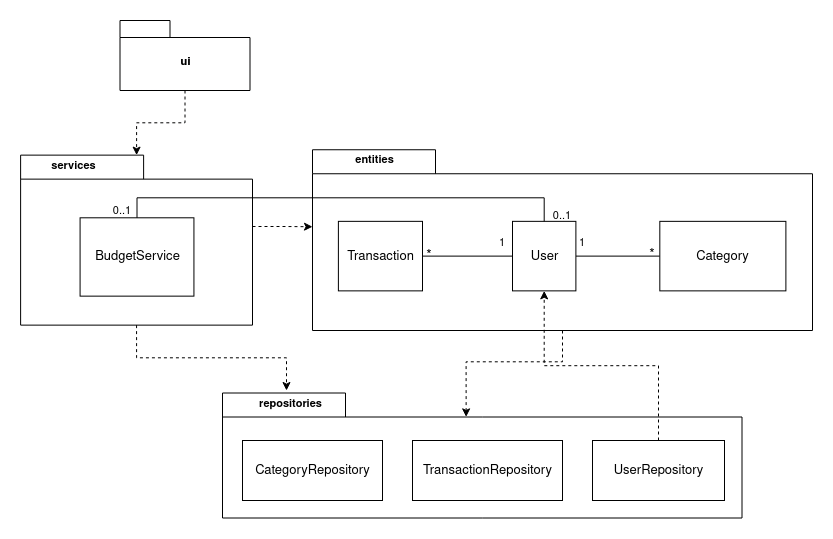
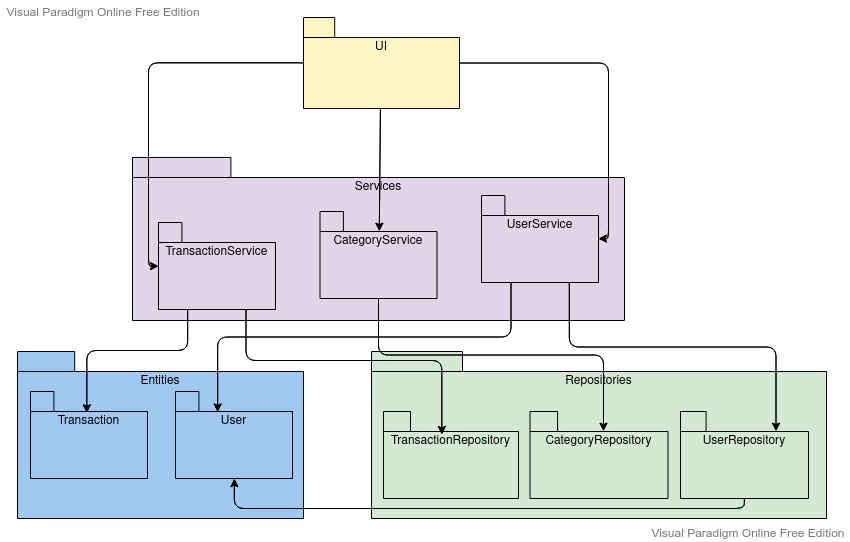
Update documentation

diff --git a/dokumentaatio/arkkitehtuuri.md b/dokumentaatio/arkkitehtuuri.md
@@ -4,23 +4,22 @@
 
 Koodin pakkausrakenne on seuraava:
 
-![Pakkauskaavio](images/pakkauskaavio.png)
+![](images/pakkauskaavio.png)
 
-Pakkaus `ui` sisältää käyttöliittymäkoodin, `services` sovelluslogiikan sekä `repositories` tietojen tallennukseen liittyvän koodin. Pakkaus `entities` sisältää luokat `Transaction`, `User` ja `Category`, jotka kuvastavat yksittäisiä sovelluksen käyttämiä tietoyksiköitä.
+Pakkaus `UI` sisältää Pythonin standardikirjastoon kuuluvalla [`tkinter`-moduulilla](https://docs.python.org/3/library/tkinter.html) toteutetun käyttöliittymäkoodin, `Services` sovelluslogiikan sekä `Repositories` tietojen tallennukseen ja hakemiseen liittyvän koodin. Pakkaus `Entities` sisältää luokat `Transaction` ja `User`, jotka kuvastavat yksittäisiä sovelluksen käyttämiä tietoyksiköitä.
 
 ## Käyttöliittymä
 
-Sovelluksen käyttöliittymä sisältää seuraavat näkymät:
+Sovelluksen käyttöliittymä sisältää yhteensä kuusi eri näkymää:
 
 * Kirjautuminen
 * Uuden käyttäjätilin luominen
 * Tapahtumien tarkastelu (**päänäkymä**)
-* Uuden tapahtuman lisäys
-* Tapahtuman muokkaus
+* Tapahtuman muokkaus ja lisäys
 * Kategorioiden tarkastelu
 * Uuden kategorian lisäys
 
-Eri näkyvistä vastaa `UI`-luokka. Sovelluslogiikka tapahtuu `BudgetService`-luokassa, jonka metodeja `UI`-luokka kutsuu.
+Eri näkymistä vastaa `UI`-luokka. Sovelluslogiikka tapahtuu `Services`-pakkauksen luokissa, joiden metodeja `UI`-luokasta kutsutaan.
 
 ## Sovelluslogiikka
 
@@ -37,35 +36,67 @@ classDiagram
         date
         amount
         category_id
+        user_id
         description
-        user
     }
 ```
 
-Sovelluslogiikasta vastaa `BudgetService`-luokan olio. Jokaista käyttöliittymän toimintoa vastaa yksi `BudgetService`-luokan metodi. Näitä metodeja ovat esimerkiksi:
+Sovelluslogiikasta vastaa kolme eri `Services`-pakkauksen oliota. `Services`-pakkauksen toteutus vastaa `Repositories`-pakkauksen toteutusta, eli `TransactionService` vastaa tapahtumiin liittyvästä sovelluslogiikasta, `UserService` vastaa käyttäjiin liittyvästä sovelluslogiikasta ja `CategoryService` kategorioihin liittyvästä sovelluslogiikasta.
 
-* `create_user(username, password1, password2)`
-* `find_transactions()`
-* `delete_category(category_id)`
+Jokaista käyttöliittymän toimintoa vastaa yksi `Services`-pakkaukseen kuuluvien luokkien metodeista. Näitä ovat esimerkiksi:
 
-`BudgetService`-luokka ei vastaa tiedon tallennuksesta, vaan tarvittaessa `BudgetService`-luokka kutsuu `Repositories`-pakkauksen luokkia `UserRepository`, `TransactionRepository` ja `CategoryRepository`.
+* `UserService.create(username, password1, password2)`
+* `TransactionService.get_one(transaction_id)`
+* `CategoryService.delete(category_id, user_id)`
+
+Kuten ylempänä esitetystä pakkauskaaviosta voi huomata, käyttöliittymäolio kutsuu ainoastaan sovelluslogiikasta vastaavia olioita, ja tiedon tallennus on keskitetty kokonaan `Repositories`-pakkauksen luokille. Näin ollen esimerkiksi tiedon tallennustapaa voisi muuttaa ilman tarvetta päivittää sovelluslogiikkaa. Sovelluslogiikasta vastaavista luokista tarvittaessa vain kutsutaan `Repositories`-pakkauksen luokkia `UserRepository`, `TransactionRepository` ja `CategoryRepository`.
 
 ## Tiedon tallennus
 
-`Repositories`-pakkauksen luokat `UserRepository`, `TransactionRepository` ja `CategoryRepository` huolehtivat tiedon tallentamisesta. Kaikki tieto tallennetaan [SQLite](https://www.sqlite.org/)-tietokantaan. Tietokannan nimi on määritelty `.env.`-tiedostossa, ja se on oletuksena `expensetracker.db`.
+Luokkien suunnittelussa on noudatettu repository-suunnittelumallia, mikä tarkoittaa että tiedon haku ja tallennus on eriytetty omiin osiinsa. Tällöin jokaisella tietokohteella (tämän sovelluksen tapauksessa käyttäjät, tapahtumat ja kategoriat) on oma repositorionsa.
+
+`Repositories`-pakkauksen luokat `UserRepository`, `TransactionRepository` ja `CategoryRepository` huolehtivat tiedon tallentamisesta ja hakemisesta. Kaikki tieto tallennetaan [SQLite](https://www.sqlite.org/)-tietokantaan. Tietokannan nimi on määritelty `.env`-tiedostossa, ja se on oletuksena `expensetracker.db`. Testien suorittamista varten on oma tietokantansa.
 
 Tietokanta alustetaan `initialize_database.py`-tiedostossa, joka suoritetaan automaattisesti alustustoimenpiteiden aikana (`poetry run invoke build`).
 
-## Toiminnallisuudet
+Tietokanta sisältää neljä taulua: `Users`, `Transactions`, `Categories` ja `CategoryVisibilities`. Kolme ensimmäistä taulua vastaa läpi sovelluksen esiintyviä vastaavia tietorakenteita, ja viimeksi mainittu sisältää tiedon siitä, mitkä kategoriat kullekin käyttäjälle näytetään. Näin siksi, että kullakin sovelluksen käyttäjistä on omat kategoriansa, ja kunkin käyttäjän tulee pystyä poistamaan kategorioita vain itseltään. Käyttäjän ”poistaessa” kategorian sitä ei todellisuudessa poisteta, vaan ainoastaan piilotetaan häneltä.
 
-### Uuden käyttäjän luominen
+Tarkempaa tietoa sovelluksen käyttämän tietokannan rakenteesta voit katsoa [täältä](https://github.com/valtterikantanen/ot-harjoitustyo/blob/master/src/initialize_database.py).
+
+## Päätoiminnallisuudet
+
+Alla on kuvattu sekvenssikaavioina sovelluksen toimintalogiikka muutaman päätoiminnallisuuden osalta. 
+
+### Rekisteröityminen ja sisäänkirjautuminen
 
 ![](images/sekvenssikaavio_kirjautuminen.png)
 
-### Uuden tapahtuman luominen
+Sovelluksen alkunäkymässä käyttäjä klikkaa ”Luo uusi käyttäjätili” -painiketta. Avautuvassa näkymässä käyttäjä syöttää haluamansa käyttäjätunnuksen ja salasanan, ja tämän jälkeen painaa ”Luo käyttäjätili”. Tämän jälkeen käyttöliittymä kutsuu `UserService`-luokan `create`-funktiota, jossa syötteet testataan mahdollisten virheiden varalta (mm. jokin syötteistä tyhjä, salasana ja sen vahvistus eivät täsmää). Jos syötteet ovat kunnossa, `UserService` kutsuu `UserRepository`-luokan `create`-funktiota parametrinaan `User`-olio. `UserRepository` palauttaa juuri luodun käyttäjätilin id:n, joka myös `UserService`-luokasta välitetään käyttöliittymälle.
+
+Käyttäjätilin luomisen jälkeen käyttäjälle lisätään vielä oletuskategoriat. Käyttöliittymästä kutsutaan `CategoryService`-luokan funktiota `add_default_categories` parametrinaan juuri luodun käyttäjätilin id. `CategoryService`-luokasta kutsutaan `CategoryRepository`-luokkaa, joka hoitaa varsinaisen lisäyksen.
+
+Viimeisenä käyttäjä kirjataan automaattisesti sisään kutsumalla jälleen käyttöliittymästä `UserService`-luokan `login`-funktiota parametrinaan käyttäjätunnus ja salasana, minkä jälkeen `UserService`-luokasta kutsutaan `UserRepository`-luokan `search_by_username`-funktiota parametrinaan käyttäjätunnus. Syötettyjä tietoja verrataan `search_by_username`-funktion palauttamiin arvoihin, ja jos ne vastaavat toisiaan, niin käyttäjä kirjataan sisään ja hänet siirretään sovelluksen budjetti- eli päänäkymään.
+
+### Uuden tapahtuman lisääminen
 
 ![](images/sekvenssikaavio_uusi_tapahtuma.png)
+
+Kirjautunut käyttäjä klikkaa sovelluksen budjetti- eli päänäkymästä tapahtumasta riippuen joko ”Lisää uusi meno” tai ”Lisää uusi tulo”. Molemmat valinnat johtavat samaan näkymään, mutta näkymälle välitetään tieto siitä, onko käyttäjä lisäämässä menoa vai tuloa. Käyttäjä syöttää avautuvalle lomakkeelle vähintään päivämäärän, kategorian ja määrän sekä vapaaehtoisen kuvauksen ja klikkaa ”Lisää tapahtuma”-painiketta.
+
+Tämän jälkeen käyttöliittymä kutsuu `UserService`-luokan `get_current_user_id`-funktiota, joka edelleen kutsuu `UserRepository`-luokan funktiota `get_user_id` parametrinaan sisäänkirjautuneen käyttäjän käyttäjätunnus. `UserRepository` ja `UserService` palauttavat käyttäjän id:n. Lisäksi kutsutaan `CategoryService`-luokan `get_category_id`-funktiota, jolle annetaan parametriksi kategorian nimi ja tyyppi. Samoilla parametreilla kutsutaan `CategoryRepository`-luokan `get_category_id`-funktiota, joka palauttaa kategorian id:n. `CategoryService` palauttaa saman id:n käyttöliittymälle.
+
+Seuraavaksi käyttöliittymästä kutsutaan `TransactionService`-luokan `create`-funktiota parametrinaan tapahtuman ajankohta, tyyppi (meno vai tulo), summa, kategorian id sekä käyttäjän id. Tämän jälkeen `TransactionService`-luokassa ajankohta ja summa validoidaan. Jos parametrit olivat kunnossa, kutsutaan `TransactionRepository`-luokan `add`-funktiota ja annetaan sille parametriksi `Transaction`-olio, joka sisältää tapahtuman tiedot. Tapahtuman lisäyksen jälkeen käyttäjä siirretään sovelluksen päänäkymään.
 
 ### Uuden kategorian lisääminen
 
 ![](images/sekvenssikaavio_uusi_kategoria.png)
+
+Kirjautunut käyttäjä klikkaa sovelluksen päänäkymässä ”Tarkastele kategorioita” -painiketta ja seuraavassa näkymässä ”Lisää kategoria”. Käyttäjä syöttää avautuvalle lomakkeelle kategorian nimen sekä tyypin (meno vai tulo) ja klikkaa ”Lisää kategoria”-painiketta.
+
+Tämän jälkeen käyttöliittymä kutsuu `UserService`-luokan `get_current_user_id`-funktiota, joka edelleen kutsuu `UserRepository`-luokan funktiota `get_user_id` parametrinaan sisäänkirjautuneen käyttäjän käyttäjätunnus. `UserRepository` ja `UserService` palauttavat käyttäjän id:n.
+
+Seuraavaksi käyttöliittymästä kutsutaan `CategoryService`-luokan `add`-funktiota, jonka parametriksi annetaan kategorian nimi, tyyppi ja käyttäjän id. `CategoryService`-luokasta kutsutaan edelleen `CategoryRepository`-luokan funktiota `add`, joka suorittaa varsinaisen lisäyksen. Lisäyksen jälkeen käyttäjä siirretään kategorianäkymään.
+
+### Muut toiminnallisuudet
+
+Muutkin toiminnallisuudet toimivat pääasiassa samalla logiikalla. Käyttöliittymästä kutsutaan jotakin kolmesta sovelluslogiikasta vastaavasta luokasta, josta tarvittaessa kutsutaan jonkin repositorio-luokan metodia. Onnistuneen suorituksen jälkeen käyttäjä ohjataan esimerkiksi päänäkymään. Virhetilanteissa sovellus antaa virheilmoituksen, ja joissakin tilanteissa myös toiminnan suorittamista saa ilmoituksen (esim. tapahtuman päivitys).

diff --git a/dokumentaatio/vaatimusmaarittely.md b/dokumentaatio/vaatimusmaarittely.md
@@ -1,10 +1,12 @@
 # Vaatimusmäärittely
 
 ## Sovelluksen tarkoitus
-Tavoitteena on luoda sovellus, jonka avulla käyttäjä voi seurata henkilökohtaista talouttaan. Seuranta tapahtuu pitämällä kirjaa tuloista ja menoista sekä tarkastelemalla kirjattuja tapahtumia joko tekstimuodossa tai graafisesti. Sovellukseen voi rekisteröityä useita käyttäjiä, jotka voivat seurata omia tapahtumiaan.
+
+Tavoitteena on luoda sovellus, jonka avulla käyttäjä voi seurata henkilökohtaista talouttaan. Seuranta tapahtuu pitämällä kirjaa tuloista ja menoista sekä tarkastelemalla kirjattuja tapahtumia joko tekstimuodossa tai graafisesti. Sovellukseen voi rekisteröityä useita käyttäjiä, jotka voivat kukin seurata omia tapahtumiaan.
 
 ## Käyttäjät
-Alussa sovelluksessa on vain yksi käyttäjätyyppi eli tavallinen käyttäjä. Tulevaisuudessa sovellukseen voi tulla mahdollisuus lisätä myös pääkäyttäjiä, joilla on laajemmat oikeudet.
+
+Sovelluksessa on vain yksi käyttäjätyyppi eli tavallinen käyttäjä.
 
 ## Toteutetut toiminnot
 
@@ -21,25 +23,18 @@ Kirjautunut käyttäjä voi:
 * lisätä uuden tapahtuman
     * Tapahtumaan liittyy tapahtumapäivä, tyyppi (meno vai tulo), summa, kategoria ja vapaaehtoinen kuvaus.
 * listata tapahtumat
-    * Käyttäjä voi listata kaikki lisäämänsä tapahtumat.
+    * Käyttäjä voi listata kaikki lisäämänsä tapahtumat. Hän voi myös suodattaa tapahtumia ajankohdan tai kategorian mukaan.
 * poistaa tai muokata tapahtumia
     * Käyttäjä voi valita haluamansa tapahtuman ja muokata haluamiaan tietoja. Tapahtuman voi myös poistaa kokonaan. Vahinkojen minimoimiseksi käyttäjältä varmistetaan vielä ennen lopullista poistoa, haluaako hän todella poistaa tapahtuman.
 * tarkastella, lisätä ja poistaa kategorioita
     * Kategorioiden tarkoitus on auttaa tapahtumien ryhmittelyssä. Sovelluksessa on valmiina ennalta asetettuja kategorioita (esim. *asuminen*, *ruoka ja päivittäistavarat*, *ajoneuvot ja liikenne*). Käyttäjä kuitenkin pystyy poistamaan sekä valmiita että itse luotuja kategorioita.
 * kirjautua ulos.
 
-## Tulevat toiminnot
-
-Kirjautunut käyttäjä voi:
-
-* rajata tarkasteltavien tapahtumien määrää
-    * Käyttäjä voi valita tietyn ajanjakson tai kategorian, johon kuuluvia tapahtumia hän haluaa tarkastella.
-* tarkastella tapahtumia graafisesti
-    * Listauksen lisäksi käyttäjä voi tarkastella tapahtumia myös graafisesti. Kuten listauksessa, hän voi tarkastella kaikkia tapahtumia tai jollakin kriteerillä valita osan niistä.
-
 ## Jatkokehitysideoita
-Aikataulun salliessa sovellusta voidaan täydentää lisäämällä mm. seuraavia toimintoja:
 
-* Pääkäyttäjän lisääminen
+Tulevaisuudessa sovellusta voidaan täydentää lisäämällä esimerkiksi seuraavia toimintoja:
+
+* Laajemmat oikeudet omaavan pääkäyttäjän lisääminen
 * Käyttäjätunnuksen tai salasanan vaihtaminen
 * Useiden erillisten budjettien luominen samalle käyttäjälle
+* Tapahtumien tarkastelu graafisesti esim. pylväs- ja ympyrädiagrammien avulla

diff --git a/dokumentaatio/testaus.md b/dokumentaatio/testaus.md
@@ -1,0 +1,29 @@
+# Testausdokumentti
+
+## Yksikkö- ja integraatiotestaus
+Sovellusta on yksikkötestattu [unittest](https://docs.python.org/3/library/unittest.html)-sovelluskehystä käyttäen.
+
+### Sovelluslogiikka
+Jokaiselle sovelluslogiikasta vastaavalle luokalle (`UserService`, `TransactionService` ja `CategoryService`) on luotu omat testiluokat. Testien toteuttamiseksi `.env.test`-tiedostossa on määritelty, että testeissä ei käytetä samaa tietokantaa kuin sovellus tavallisesti käyttää. Oletuksena testitietokannan nimi on `testdatabase.db`. Tämän johdosta testien suorittaminen ei tyhjennä pysyväistalletettuja tietoja.
+
+### Repositorio-luokat
+Ainoastaan `CategoryRepository`-luokalle on tehty oma testiluokkansa `TestCategoryRepository`. Kyseisessä luokassa on vain yksi testi sellaista ominaisuutta varten, jota tällä hetkellä hyödynnetään ainoastaan luokan sisällä. Muiden repositorio-luokkien toiminta on tullut testatuksi samalla `service`-luokkien testien kanssa.
+
+### Testikattavuus
+
+Koodin testauksen haaraumakattavuus on 99 %.
+
+![](images/testikattavuus.png)
+
+Testauksen ulkopuolelle jätettiin käyttöliittymäkoodin sisältävän `ui`-kansion tiedostot. Myöskään `initialize_database.py`- ja `build.py` tiedostojen suorittamista komentoriviltä ei ole testattu. Muiden tiedostojen osalta testikattavuus on 100 %. 
+
+## Järjestelmätestaus
+
+### Asennus ja käynnistäminen
+Sovellus on asennettu [käyttöohjeen](https://github.com/valtterikantanen/ot-harjoitustyo/blob/master/dokumentaatio/kayttoohje.md) mukaisesti Linux-ympäristössä (uusimmat päivitykset sisältävä [Cubbli 20](https://wiki.helsinki.fi/display/it4sci/Cubbli+Linux) -fuksiläppäri). Käyttöä ei ole testattu lainkaan Windows- tai macOS-käyttöjärjestelmillä.
+
+### Toiminnallisuudet
+Kaikkien [vaatimusmäärittelyn](https://github.com/valtterikantanen/ot-harjoitustyo/blob/master/dokumentaatio/vaatimusmaarittely.md) mukaisten ominaisuuksien toiminta on testattu manuaalisesti. Lisäksi lomakkeita on yritetty tarkoituksella täyttää virheellisillä arvoilla. Näissäkään tapauksissa ohjelma ei ole kaatunut, vaan käyttöliittymässä on näytetty asianmukainen virheilmoitus.
+
+## Tiedossa olevat ongelmat
+Jos sovelluksen käynnistää ilman alustustoimenpiteiden suorittamista, sovellus käynnistyy. Kuitenkaan esimerkiksi uuden käyttäjätilin luominen ei onnistu, koska tällöin tietokantatauluja ei ole luotu. Tällöin sovellukseen ei tule näkyviin virheilmoitusta, vaan komentoriville tulostuu traceback.

diff --git a/README.md b/README.md
@@ -1,6 +1,6 @@
 # Ohjelmistotekniikka-kurssin palautusrepositorio
 
-Tämä repositorio on laadittu Helsingin yliopiston kevään 2022 kurssille **Ohjelmistotekniikka**, ja se täydentyy tulevien viikkojen aikana.
+Harjoitustyö on laadittu Helsingin yliopiston kevään 2022 kurssille **Ohjelmistotekniikka**.
 
 ## Harjoitustyön kuvaus
 
@@ -9,20 +9,17 @@ Sovelluksen avulla käyttäjä voi seurata henkilökohtaista talouttaan. Seurant
 ## Julkaisut (releaset)
 
 * [Viikko 5](https://github.com/valtterikantanen/ot-harjoitustyo/releases/tag/viikko5)
-
 * [Viikko 6](https://github.com/valtterikantanen/ot-harjoitustyo/releases/tag/viikko6)
+* [Loppupalautus](https://github.com/valtterikantanen/ot-harjoitustyo/releases/tag/loppupalautus)
 
 ## Dokumentaatio
 
 * [Vaatimusmäärittely](https://github.com/valtterikantanen/ot-harjoitustyo/blob/master/dokumentaatio/vaatimusmaarittely.md)
-
 * [Käyttöohje](https://github.com/valtterikantanen/ot-harjoitustyo/blob/master/dokumentaatio/kayttoohje.md)
-
-* [Työaikakirjanpito](https://github.com/valtterikantanen/ot-harjoitustyo/blob/master/dokumentaatio/tuntikirjanpito.md)
-
-* [Changelog](https://github.com/valtterikantanen/ot-harjoitustyo/blob/master/dokumentaatio/changelog.md)
-
 * [Arkkitehtuurikuvaus](https://github.com/valtterikantanen/ot-harjoitustyo/blob/master/dokumentaatio/arkkitehtuuri.md)
+* [Testausdokumentti](https://github.com/valtterikantanen/ot-harjoitustyo/blob/master/dokumentaatio/testaus.md)
+* [Työaikakirjanpito](https://github.com/valtterikantanen/ot-harjoitustyo/blob/master/dokumentaatio/tuntikirjanpito.md)
+* [Changelog](https://github.com/valtterikantanen/ot-harjoitustyo/blob/master/dokumentaatio/changelog.md)
 
 ## Asennus ja käyttö
 

diff --git a/dokumentaatio/tuntikirjanpito.md b/dokumentaatio/tuntikirjanpito.md
@@ -16,4 +16,8 @@
 | 29.4. | 6        | Laajennettu käyttöliittymää, selkiytetty testejä                                      |
 | 2.5.  | 6        | Parannettu virheenkäsittelyä, laajennettu edelleen käyttöliittymää                    |
 | 3.5.  | 7        | Poistettu toisteista koodia, parannettu koodin muotoilua, kirjoitettu uusia testejä   |
-|       | 53       | **Yhteensä**                                                                          |
+| 10.5. | 5        | Koodin refaktorointia, esim. BudgetService-luokka jaettu kolmeen uuteen luokkaan      |
+| 11.5. | 7        | Käyttöliittymän viimeistelyä, lisätty esim. mahdollisuus rajata näkyviä tapahtumia    |
+| 12.5. | 5        | Testien laajentamista uusimpien ominaisuuksien osalta, koodin refaktorointia          |
+| 14.5. | 4        | Koodin refaktorointia ja viimeistelyä, docstringin kirjoittamista                     |
+|       | **79**   | **Yhteensä**                                                                          |

diff --git a/dokumentaatio/kayttoohje.md b/dokumentaatio/kayttoohje.md
@@ -1,5 +1,21 @@
 # Käyttöohje
 
+## Asennus ja käyttöönotto
+
+Tallenna sovelluksen lähdekoodi zip-pakettina [tästä](https://github.com/valtterikantanen/ot-harjoitustyo/archive/refs/tags/loppupalautus.zip) ja pura se. Purkamisen jälkeen siirry projektin juurikansioon. Juurikansiossa suorita ensin komento  
+
+```
+$ poetry install
+```
+joka asentaa sovelluksen tarvitsemat kirjastot. Seuraavaksi suorita alustustoimenpiteet komennolla
+```
+$ poetry run invoke build
+```
+Tämän jälkeen ohjelma on valmiina käytettäväksi. Ohjelman voi käynnistää komennolla
+```
+$ poetry run invoke start
+```
+
 ## Kirjautuminen
 
 Sovellus käynnistyy kirjautumisnäkymään:

diff --git a/dokumentaatio/changelog.md b/dokumentaatio/changelog.md
@@ -29,3 +29,9 @@
 * Muokattu tietokantaa niin, että jokaisella käyttäjällä on omat kategoriansa, jolloin yhden käyttäjän lisäämät tai poistamat kategoriat eivät suoraan vaikuta muihin käyttäjiin
 * Lisätty mahdollisuus muokata ja poistaa jo lisättyjä tapahtumia
 * Testattu, että kategorioiden poisto sekä tapahtumien muokkaus ja poisto toimivat odotetulla tavalla
+
+## Viikko 7
+
+* Lisätty mahdollisuus suodattaa päänäkymässä näkyviä menoja ajankohdan tai kategorian mukaan
+* Korjattu pieniä virheitä mm. uuden tapahtuman lisäämisessä
+* Viimeistelty graafisen käyttöliittymän ulkoasua
